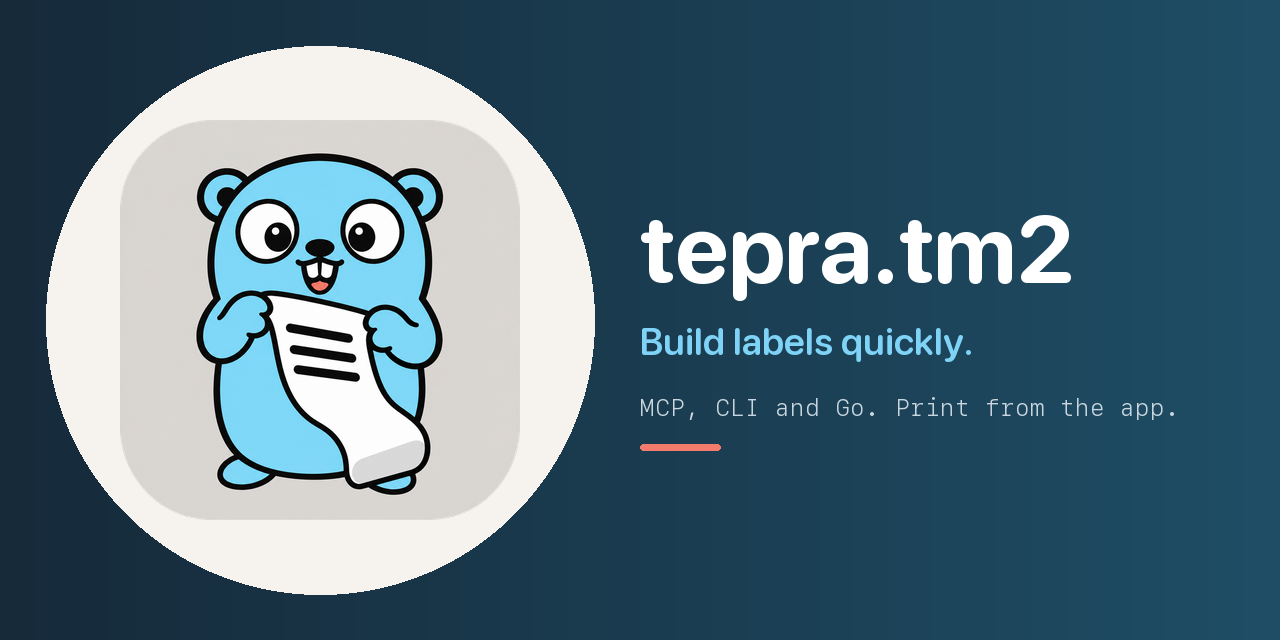
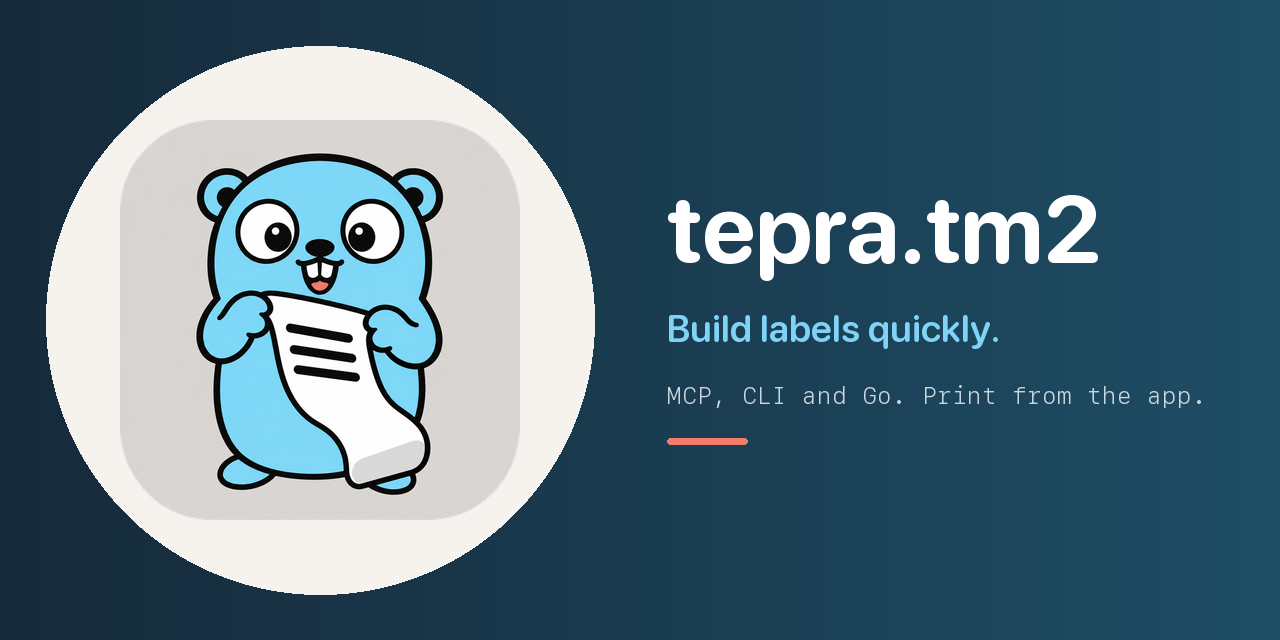
Report every bad option and value at once, counted from 1
- NewPour and NewPages check the values even when an option is bad,
  and join every error. The CLI and the MCP tools run them even when a
  name did not parse, so a bad rotation and a bad JAN-13 value come back
  together.
- Values and pages count from 1, as the app's rows and pages do.
- ParseRotation lists the rotations clockwise: 0, 90, 180, 270.
- The CLI prints joined errors a line each, each with one "tepra: ".
- The social preview's text is centred in the room right of the circle.

Claude-Session: https://claude.ai/code/session_01U9e1ZvweUunxvFDw5K4v36

diff --git a/cmd/tepra/mcp.go b/cmd/tepra/mcp.go
@@ -127,17 +127,15 @@ func newMCPServer(version string) *mcp.Server {
 
 // mcpPour handles create_pour_labels.
 func mcpPour(_ context.Context, _ *mcp.CallToolRequest, in mcpPourInput) (*mcp.CallToolResult, mcpLabelOutput, error) {
-	// Each bad input is reported at once, the code's too.
 	tape, opts, err := in.mcpOptions()
 	pour, codeErr := labelPourOptions(opts, in.Code)
-	if err := errors.Join(err, codeErr); err != nil {
-		return nil, mcpLabelOutput{}, err
-	}
 	column := in.Column
 	if column == "" {
 		column = "Label"
 	}
-	f, err := tepra.NewPour(tape, column, in.Labels, pour...)
+	f, err := labelBuild(tape, errors.Join(err, codeErr), func() (*tepra.File, error) {
+		return tepra.NewPour(tape, column, in.Labels, pour...)
+	})
 	if err != nil {
 		return nil, mcpLabelOutput{}, err
 	}
@@ -148,10 +146,9 @@ func mcpPour(_ context.Context, _ *mcp.CallToolRequest, in mcpPourInput) (*mcp.C
 // mcpPages handles create_label_pages.
 func mcpPages(_ context.Context, _ *mcp.CallToolRequest, in mcpPagesInput) (*mcp.CallToolResult, mcpLabelOutput, error) {
 	tape, opts, err := in.mcpOptions()
-	if err != nil {
-		return nil, mcpLabelOutput{}, err
-	}
-	f, err := tepra.NewPages(tape, in.Labels, labelTextOptions(opts)...)
+	f, err := labelBuild(tape, err, func() (*tepra.File, error) {
+		return tepra.NewPages(tape, in.Labels, labelTextOptions(opts)...)
+	})
 	if err != nil {
 		return nil, mcpLabelOutput{}, err
 	}
@@ -162,10 +159,9 @@ func mcpPages(_ context.Context, _ *mcp.CallToolRequest, in mcpPagesInput) (*mcp
 // mcpText handles create_text_label.
 func mcpText(_ context.Context, _ *mcp.CallToolRequest, in mcpTextInput) (*mcp.CallToolResult, mcpLabelOutput, error) {
 	tape, opts, err := in.mcpOptions()
-	if err != nil {
-		return nil, mcpLabelOutput{}, err
-	}
-	f, err := tepra.NewText(tape, in.Text, labelTextOptions(opts)...)
+	f, err := labelBuild(tape, err, func() (*tepra.File, error) {
+		return tepra.NewText(tape, in.Text, labelTextOptions(opts)...)
+	})
 	if err != nil {
 		return nil, mcpLabelOutput{}, err
 	}

diff --git a/pour.go b/pour.go
@@ -1,6 +1,7 @@
 package tepra
 
 import (
+	"errors"
 	"fmt"
 	"unicode/utf8"
 )
@@ -25,20 +26,23 @@ func NewPour(tape Tape, column string, values []string, opts ...PourOption) (*Fi
 	if len(values) == 0 {
 		return nil, fmt.Errorf("%w: no values to pour", ErrNoText)
 	}
+	// Every bad option and value is reported at once. Values count from 1,
+	// as rows do in the app.
 	c, err := newPourOptionConfig(opts)
-	if err != nil {
-		return nil, err
-	}
+	errs := []error{err}
 	if len(values) > PourMaxRows {
-		return nil, fmt.Errorf("%w: %d values to pour; the app takes up to %d", ErrOverLimit, len(values), PourMaxRows)
+		errs = append(errs, fmt.Errorf("%w: %d values to pour; the app takes up to %d", ErrOverLimit, len(values), PourMaxRows))
 	}
 	for i, v := range values {
 		if n := utf8.RuneCountInString(v); n > PourMaxCellRunes {
-			return nil, fmt.Errorf("%w: value %d has %d characters; the app takes up to %d", ErrOverLimit, i, n, PourMaxCellRunes)
+			errs = append(errs, fmt.Errorf("%w: value %d has %d characters; the app takes up to %d", ErrOverLimit, i+1, n, PourMaxCellRunes))
 		}
 		if err := c.code.checkCode(v); err != nil {
-			return nil, fmt.Errorf("value %d: %w", i, err)
+			errs = append(errs, fmt.Errorf("value %d: %w", i+1, err))
 		}
+	}
+	if err := errors.Join(errs...); err != nil {
+		return nil, err
 	}
 
 	l, err := layoutLabel(tape, values, c)

diff --git a/pages.go b/pages.go
@@ -1,6 +1,9 @@
 package tepra
 
-import "fmt"
+import (
+	"errors"
+	"fmt"
+)
 
 // NewPages returns a file of one page per text, each laid out as NewText
 // lays out its label. So each label has a font size and a length of its
@@ -11,14 +14,21 @@ func NewPages(tape Tape, texts []string, opts ...TextOption) (*File, error) {
 		return nil, fmt.Errorf("%w: no pages", ErrNoText)
 	}
 	c, err := newTextOptionConfig(opts)
-	if err != nil {
+	errs := []error{err}
+	for i, text := range texts {
+		if text == "" {
+			errs = append(errs, fmt.Errorf("page %d: %w", i+1, ErrNoText))
+		}
+	}
+	if err := errors.Join(errs...); err != nil {
 		return nil, err
 	}
 	docs := make([]Document, len(texts))
 	for i, text := range texts {
 		doc, err := newTextDocument(tape, text, c)
 		if err != nil {
-			return nil, fmt.Errorf("page %d: %w", i, err)
+			// The options make the same error on every page: one is enough.
+			return nil, fmt.Errorf("page %d: %w", i+1, err)
 		}
 		// Without it the app opens the first page alone, as a label of one
 		// page.

diff --git a/name.go b/name.go
@@ -7,13 +7,21 @@ import (
 )
 
 // parseName returns the value whose name is name, of names indexed by
-// value. kind names what is parsed, for the error.
+// value. kind names what is parsed, for the error. The error lists the
+// names in order, or in the order of the values of order when given.
 //
 //declscope:shared // fill.go, border.go and align.go parse names with it
-func parseName[T ~int](kind string, names []string, name string) (T, error) {
+func parseName[T ~int](kind string, names []string, name string, order ...T) (T, error) {
 	i := slices.Index(names, name)
 	if i < 0 {
-		return 0, fmt.Errorf("%w: %s %q; known: %s", ErrUnknownName, kind, name, strings.Join(names, ", "))
+		known := names
+		if order != nil {
+			known = make([]string, len(order))
+			for j, v := range order {
+				known[j] = names[v]
+			}
+		}
+		return 0, fmt.Errorf("%w: %s %q; known: %s", ErrUnknownName, kind, name, strings.Join(known, ", "))
 	}
 	return T(i), nil
 }

diff --git a/cmd/tepra/label.go b/cmd/tepra/label.go
@@ -210,6 +210,23 @@ func labelOptions(cmd *cli.Command) (tepra.Tape, []tepra.Option, error) {
 	return tape, opts, err
 }
 
+// labelBuild makes a file with build. err is what reading the options
+// found: build still runs, so the errors of the values come with it, all
+// at once. It does not run without a tape, which a bad tape width or an
+// unreadable picture leaves.
+//
+//declscope:shared // the commands and the MCP tools make their files with it
+func labelBuild(tape tepra.Tape, err error, build func() (*tepra.File, error)) (*tepra.File, error) {
+	if tape.WidthMM == 0 {
+		return nil, err
+	}
+	f, buildErr := build()
+	if err := errors.Join(err, buildErr); err != nil {
+		return nil, err
+	}
+	return f, nil
+}
+
 // labelReadPicture reads the picture at path. An empty path is no picture.
 //
 //declscope:shared // mcp.go reads the pictures of its tools with it

diff --git a/option.go b/option.go
@@ -79,7 +79,8 @@ func newPourOptionConfig(opts []PourOption) (*optionConfig, error) {
 }
 
 // newOptionConfig applies opts over the defaults, each with apply, and
-// reports what the app would not take.
+// reports what the app would not take. It returns the config even with an
+// error, so the caller can check its own arguments and report all at once.
 func newOptionConfig[O any](opts []O, apply func(O, *optionConfig)) (*optionConfig, error) {
 	c := &optionConfig{
 		name:           "label",
@@ -101,10 +102,7 @@ func newOptionConfig[O any](opts []O, apply func(O, *optionConfig)) (*optionConf
 	if c.at.IsZero() {
 		c.at = time.Now()
 	}
-	if err := errors.Join(c.errs...); err != nil {
-		return nil, err
-	}
-	return c, nil
+	return c, errors.Join(c.errs...)
 }
 
 // optionError records what is wrong with an option. format may wrap

diff --git a/text.go b/text.go
@@ -1,9 +1,14 @@
 package tepra
 
+import "errors"
+
 // NewText returns a file of one label that prints text. text may hold line
 // breaks ("\n").
 func NewText(tape Tape, text string, opts ...TextOption) (*File, error) {
 	c, err := newTextOptionConfig(opts)
+	if text == "" {
+		err = errors.Join(err, ErrNoText)
+	}
 	if err != nil {
 		return nil, err
 	}
@@ -15,12 +20,10 @@ func NewText(tape Tape, text string, opts ...TextOption) (*File, error) {
 }
 
 // newTextDocument lays out a label of text, its font size fitted to it.
+// text is not empty.
 //
 //declscope:shared // pages.go makes each page with it
 func newTextDocument(tape Tape, text string, c *optionConfig) (Document, error) {
-	if text == "" {
-		return Document{}, ErrNoText
-	}
 	l, err := layoutLabel(tape, []string{text}, c)
 	if err != nil {
 		return Document{}, err

diff --git a/pages_test.go b/pages_test.go
@@ -2,6 +2,7 @@ package tepra_test
 
 import (
 	"errors"
+	"strings"
 	"testing"
 
 	"github.com/mpyw/tepra.tm2"
@@ -34,7 +35,9 @@ func TestNewPages_rejects(t *testing.T) {
 	if _, err := tepra.NewPages(tepra.Tape18mm, nil); !errors.Is(err, tepra.ErrNoText) {
 		t.Errorf("no pages: %v, want ErrNoText", err)
 	}
-	if _, err := tepra.NewPages(tepra.Tape18mm, []string{"a", ""}); !errors.Is(err, tepra.ErrNoText) {
-		t.Errorf("empty page: %v, want ErrNoText", err)
+	// Pages count from 1, as in the app, and a bad option comes with them.
+	_, err := tepra.NewPages(tepra.Tape18mm, []string{"a", ""}, tepra.WithMarginMM(0))
+	if !errors.Is(err, tepra.ErrNoText) || !errors.Is(err, tepra.ErrInvalidOptions) || !strings.Contains(err.Error(), "page 2:") {
+		t.Errorf("empty page: %v, want ErrNoText on page 2, and ErrInvalidOptions", err)
 	}
 }

diff --git a/cmd/tepra/mcp_test.go b/cmd/tepra/mcp_test.go
@@ -200,6 +200,22 @@ func TestMCP_rejects(t *testing.T) {
 	}
 }
 
+func TestMCP_reportsEveryError(t *testing.T) {
+	// A bad name, which the tool reads, and a bad value, which the package
+	// checks, come back together.
+	session := mcpConnect(t)
+	res := mcpCallResult(t, session, "create_pour_labels", map[string]any{
+		"path":   filepath.Join(t.TempDir(), "x.tm2"),
+		"labels": []string{"123"},
+		"code":   "jan13",
+		"rotate": "45",
+	})
+	text := mcpResultText(res)
+	if !res.IsError || !strings.Contains(text, "rotation \"45\"") || !strings.Contains(text, "value 1:") {
+		t.Errorf("result %s, want both errors", text)
+	}
+}
+
 func TestMCP_inspectLabel(t *testing.T) {
 	session := mcpConnect(t)
 	path, err := filepath.Abs(filepath.Join("..", "..", "testdata", "pour-18mm.tm2"))

diff --git a/cmd/tepra/main.go b/cmd/tepra/main.go
@@ -57,12 +57,16 @@ func mainExitCode(w io.Writer, err error) int {
 	case isExit:
 		msg, code = strings.TrimSpace(err.Error()), exit.ExitCode()
 	case err != nil:
-		// Errors of package tepra start with "tepra: " already.
-		msg, code = strings.TrimPrefix(err.Error(), "tepra: "), 1
+		// Errors of package tepra say "tepra: " already, even when wrapped.
+		msg, code = strings.ReplaceAll(err.Error(), "tepra: ", ""), 1
 	}
-	if msg != "" {
+	if msg == "" {
+		return code
+	}
+	// Errors joined together come a line each.
+	for line := range strings.Lines(msg) {
 		// A failed write to stderr has nowhere to be reported.
-		_, _ = fmt.Fprintf(w, "tepra: %s\n", msg)
+		_, _ = fmt.Fprintf(w, "tepra: %s\n", strings.TrimSuffix(line, "\n"))
 	}
 	return code
 }

diff --git a/pour_test.go b/pour_test.go
@@ -123,3 +123,20 @@ func TestNewPour_rejects(t *testing.T) {
 		}
 	}
 }
+
+func TestNewPour_reportsEveryError(t *testing.T) {
+	// A bad option, and two bad values counted from 1, as rows are.
+	_, err := tepra.NewPour(tepra.Tape18mm, "c", []string{"123", "123456789012", "x"},
+		tepra.WithCode(tepra.CodeJAN13), tepra.WithMarginMM(0))
+	if !errors.Is(err, tepra.ErrInvalidOptions) || !errors.Is(err, tepra.ErrBadCode) {
+		t.Fatalf("%v, want ErrInvalidOptions and ErrBadCode", err)
+	}
+	for _, want := range []string{"margin", "value 1:", "value 3:"} {
+		if !strings.Contains(err.Error(), want) {
+			t.Errorf("%v, want %q in it", err, want)
+		}
+	}
+	if strings.Contains(err.Error(), "value 2:") {
+		t.Errorf("%v: value 2 is good", err)
+	}
+}

diff --git a/rotation_test.go b/rotation_test.go
@@ -2,6 +2,7 @@ package tepra_test
 
 import (
 	"errors"
+	"strings"
 	"testing"
 
 	"github.com/mpyw/tepra.tm2"
@@ -14,7 +15,8 @@ func TestParseRotation(t *testing.T) {
 			t.Errorf("ParseRotation(%q) = %v, %v", name, got, err)
 		}
 	}
-	if _, err := tepra.ParseRotation("45"); !errors.Is(err, tepra.ErrUnknownName) {
+	// The error lists the rotations clockwise, not in the app's order.
+	if _, err := tepra.ParseRotation("45"); !errors.Is(err, tepra.ErrUnknownName) || !strings.HasSuffix(err.Error(), "known: 0, 90, 180, 270") {
 		t.Errorf("ParseRotation(45): %v", err)
 	}
 	if got := tepra.Rotation(90).String(); got != "Rotation(90)" {
